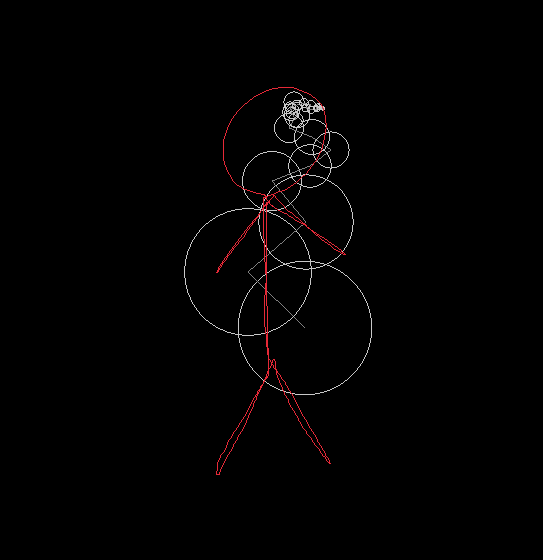
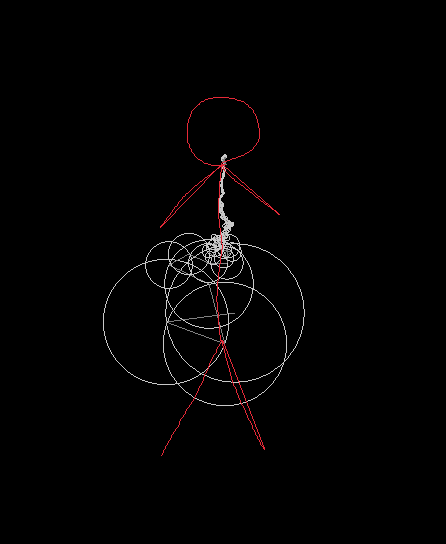
removed aspect ration cause it was causing some bugs

diff --git a/src/visualizer.cpp b/src/visualizer.cpp
@@ -46,27 +46,27 @@ namespace viz {
         Vector2 center  = {m_width / 2.0f, m_height / 2.0f};
         Vector2 current = center;
 
-        float aspect_ratio = (m_width / static_cast<float>(m_height));
-
         Vector2 finalPosition = center;
-        for (const auto& e : epicycloids) {
-            float angle        = e.freq * m_time + e.theta;
-            float scaledRadius = e.radius * (std::min(m_width, m_height) / 2.0f);
-            finalPosition.x += scaledRadius * cos(angle) * aspect_ratio;
-            finalPosition.y += scaledRadius * sin(angle);
+
+        if (m_lock) {
+            for (const auto& e : epicycloids) {
+                float angle = e.freq * m_time + e.theta;
+                finalPosition.x += e.radius * cos(angle);
+                finalPosition.y += e.radius * sin(angle);
+            }
         }
 
         Vector2 centerOffset = (m_lock) ? center - finalPosition : Vector2{0.0f};
 
         for (const auto& e : epicycloids) {
             float   angle        = e.freq * m_time + e.theta;
-            float   scaledRadius = e.radius * (std::min(m_width, m_height) / 2.0f);
-            Vector2 next         = {current.x + scaledRadius * cos(angle) * aspect_ratio, current.y + scaledRadius * sin(angle)};
+            Vector2 next         = {current.x + e.radius * cos(angle), current.y + e.radius * sin(angle)};
+            float   circleRadius = e.radius * m_zoom;
 
             Vector2 drawCurrent = {(current.x + centerOffset.x) * m_zoom + center.x * (1 - m_zoom), (current.y + centerOffset.y) * m_zoom + center.y * (1 - m_zoom)};
             Vector2 drawNext    = {(next.x + centerOffset.x) * m_zoom + center.x * (1 - m_zoom), (next.y + centerOffset.y) * m_zoom + center.y * (1 - m_zoom)};
 
-            DrawCircleLines(static_cast<int>(drawCurrent.x), static_cast<int>(drawCurrent.y), scaledRadius * m_zoom, LIGHTGRAY);
+            DrawCircleLines(static_cast<int>(drawCurrent.x), static_cast<int>(drawCurrent.y), circleRadius, LIGHTGRAY);
             DrawLine(static_cast<int>(drawCurrent.x), static_cast<int>(drawCurrent.y), static_cast<int>(drawNext.x), static_cast<int>(drawNext.y), GRAY);
 
             current = next;

diff --git a/src/input.cpp b/src/input.cpp
@@ -38,7 +38,7 @@ namespace input {
     }
 
     std::vector<std::complex<float>> getUserPath() {
-        const int screenWidth  = 1500;
+        const int screenWidth  = 1000;
         const int screenHeight = 1000;
 
         InitWindow(screenWidth, screenHeight, "Draw your path");
@@ -60,15 +60,13 @@ namespace input {
 
             if (isDrawing) {
                 Vector2 mousePos = GetMousePosition();
-                float   x        = (mousePos.x - screenWidth / 2.0f) / (screenWidth / 2.0f);
-                float   y        = (mousePos.y - screenHeight / 2.0f) / (screenHeight / 2.0f);
-                path.emplace_back(x, y);
+                path.emplace_back(mousePos.x - screenWidth / 2.0f, mousePos.y - screenHeight / 2.0f);
             }
 
             if (!path.empty()) {
                 for (size_t i = 1; i < path.size(); i++) {
-                    Vector2 start = {(path[i - 1].real() * screenWidth / 2.0f) + screenWidth / 2.0f, (path[i - 1].imag() * screenHeight / 2.0f) + screenHeight / 2.0f};
-                    Vector2 end   = {(path[i].real() * screenWidth / 2.0f) + screenWidth / 2.0f, (path[i].imag() * screenHeight / 2.0f) + screenHeight / 2.0f};
+                    Vector2 start = {path[i - 1].real() + screenWidth / 2.0f, path[i - 1].imag() + screenHeight / 2.0f};
+                    Vector2 end   = {path[i].real() + screenWidth / 2.0f, path[i].imag() + screenHeight / 2.0f};
                     DrawLineV(start, end, RED);
                 }
             }

diff --git a/src/main.cpp b/src/main.cpp
@@ -4,7 +4,7 @@
 #include "visualizer.hpp"
 
 int main() {
-    const int screenWidth  = 1500;
+    const int screenWidth  = 1000;
     const int screenHeight = 1000;
 
     while (true) {
